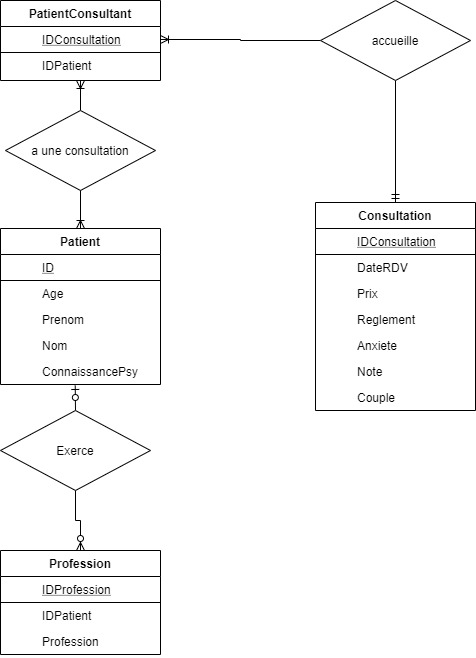
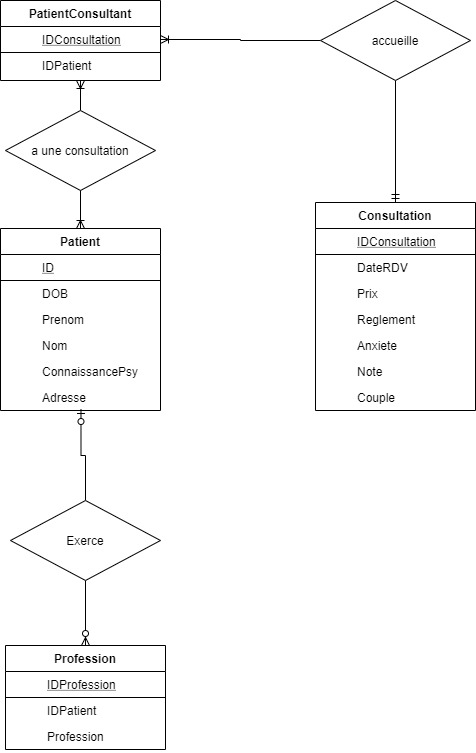
Lier patient RDV, Modifier adresse profession, ajouter commentaires consultation + modification bdd

diff --git a/ProjetBDD_java/src/Test.java b/ProjetBDD_java/src/Test.java
@@ -16,20 +16,23 @@ public class Test {
                 //Connection to the database with the info provided by the user
                 Connection con = DriverManager.getConnection("jdbc:oracle:thin:@localhost:1521:xe", userName, password);
                 user = false;
-                int choice = 1;
-                while (choice != 0) {
-                    System.out.println("Veuillez choisir une action (entrez un nombre de 1 à 10, 0 to quit) : ");
+                int quit = 0;
+                while (quit == 0) {
+                    System.out.println("Veuillez choisir une action (entrez un nombre de 1 à 10) : ");
+                    System.out.println("0.  Quitter le programme ");
                     System.out.println("1.  Consulter RDV ");
                     System.out.println("2.  Enregistrer un patient ");
                     System.out.println("3.  Ajouter un rdv ");
                     System.out.println("4.  Entrer info sur un rdv ");
-                    choice = sc.nextInt();
+                    System.out.println("5.  Modifier info patient ");
+                    int choice = sc.nextInt();
                     Statement st;
                     ResultSet rs;
                     String sql;
                     switch (choice) {
                         case 0 :
-                            System.out.println("Au revoir");
+                            System.out.println("Êtes-vous sûr de vouloir quitter le programme ? (0 pour revenir) ");
+                            quit = sc.nextInt();
                             break;
                         case 1:
                             st = con.createStatement();
@@ -45,13 +48,16 @@ public class Test {
                         case 2 :
                             sc.nextLine();
                             System.out.println("Entrez le nom du patient : ");
-                            String nom = "'" + sc.nextLine() + "'";
+                            String nomPatient = "'" + sc.nextLine() + "'";
 
                             System.out.println("Entrez le prenom du patient : ");
-                            String prenom = "'" + sc.nextLine() + "'";
+                            String prenomPatient = "'" + sc.nextLine() + "'";
 
-                            System.out.println("Entrez l'age du patient : ");
-                            String age = "'" + sc.nextLine() + "'";
+                            System.out.println("Entrez votre date de naissance sous la forme : yyyy/mm/dd (par ex : 2003/05/19) : ");
+                            String dob = "'" + sc.nextLine() + "'";
+
+                            System.out.println("Entrez votre adresse : ");
+                            String adresse = "'" + sc.nextLine() + "'";
 
                             System.out.println("Entrez la façon dont le patient a connu le cabinet : ");
                             String psy = "'" + sc.nextLine() + "'";
@@ -60,23 +66,56 @@ public class Test {
                             String prof = "'" + sc.nextLine() + "'";
 
                             st = con.createStatement();
-                            sql = "INSERT INTO \"Patient\"(\"Age\",\"Prenom\",\"Nom\",\"ConnaissancePsy\") VALUES(" + age + "," + prenom + "," + nom + "," + psy + ")";
+                            sql = "INSERT INTO \"Patient\"(\"Prenom\",\"Nom\",\"ConnaissancePsy\",\"Adresse\",\"DOB\") VALUES(" + prenomPatient + "," + nomPatient + "," + psy + "," + adresse + ",TO_DATE(" + dob + ", 'yyyy/mm/dd'))";
                             st.executeQuery(sql);
                             sql = "INSERT INTO \"Profession\"(\"IDPatient\",\"Profession\") VALUES(pat_seq.currval," + prof + ")";
                             st.executeQuery(sql);
+
+                            st.close();
                             break;
                         case 3 :
                             sc.nextLine();
+
                             System.out.println("Entrez la date du RDV sous la forme : yyyy/mm/dd hh24:mi (par ex : 2003/05/19 16:00) : ");
                             String date = "'" + sc.nextLine() + "'";
 
-                            System.out.println("Consultation en couple ? (1 si oui 0 sinon) : ");
-                            int couple = sc.nextInt();
-
                             st = con.createStatement();
-                            sql = "INSERT INTO \"Consultation\"(\"DateRDV\", \"Couple\") VALUES(TO_DATE(" + date + ", 'yyyy/mm/dd hh24:mi')," + couple + ")";
+                            sql = "INSERT INTO \"Consultation\"(\"DateRDV\", \"Couple\") VALUES(TO_DATE(" + date + ", 'yyyy/mm/dd hh24:mi'),0)";
                             st.executeQuery(sql);
-                            sql= "INSERT INTO \"PatientConsultant\" VALUES(cons_seq.currval,pat_seq.currval)";
+
+                            int nb = 0;
+                            do {
+                                System.out.println("Combien de patients vont assister à ce RDV ? : (1 à 3 patients) ");
+                                nb = sc.nextInt();
+                                sc.nextLine();
+                            } while (nb>3 || nb<1);
+
+                            int id = 0;
+                            for (int i=0;i<nb;i++) {
+                                System.out.println("Entrez le nom du patient prenant le RDV: ");
+                                String nom = "'" + sc.nextLine() + "'";
+
+                                System.out.println("Entrez le prenom du patient prenant le RDV: ");
+                                String prenom = "'" + sc.nextLine() + "'";
+
+                                sql = "SELECT ID FROM \"Patient\" WHERE \"Nom\" =" + nom + " AND \"Prenom\" =" + prenom;
+                                rs = st.executeQuery(sql);
+                                while (rs.next()) {
+                                    id = rs.getInt("ID");
+                                }
+                                sql= "INSERT INTO \"PatientConsultant\" VALUES(cons_seq.currval,"+ id + ")";
+                                st.executeQuery(sql);
+                            }
+
+                            if (nb==2) {
+                                System.out.println("Consultation en couple ? (1 si oui 0 sinon) : ");
+                                int couple = sc.nextInt();
+                                if (couple == 1) {
+                                    sql = "UPDATE \"Consultation\" SET \"Couple\"=" + couple + " WHERE IDConsultation = cons_seq.currval";
+                                }
+                            }
+
+                            st.close();
                             break;
                         case 4:
                             sc.nextLine();
@@ -95,11 +134,39 @@ public class Test {
 
                             st = con.createStatement();
                             sql = "UPDATE \"Consultation\" SET \"Prix\"=" + prix + ",\"Paiement\"=" + paiement + ",\"Note\"=" + note + ",\"Anxiete\"=" + anxiete + " WHERE IDConsultation=cons_seq.currval";
+
+                            st.close();
                             break;
+                        case 5:
+                            System.out.println("Entrez le nom du patient dont vous voulez modifier les infos : ");
+                            String nom = "'" + sc.nextLine() + "'";
+
+                            System.out.println("Entrez le prenom du patient dont vous voulez modifier les infos  : ");
+                            String prenom = "'" + sc.nextLine() + "'";
+
+                            System.out.println("Entrez la nouvelle adresse du patient dont vous voulez modifier les infos  : ");
+                            String newAdresse = "'" + sc.nextLine() + "'";
+
+                            System.out.println("Entrez la nouvelle profession actuelle du patient : ");
+                            String profession = "'" + sc.nextLine() + "'";
+
+                            st = con.createStatement();
+                            sql = "SELECT ID FROM \"Patient\" WHERE \"Nom\" =" + nom + " AND \"Prenom\" =" + prenom;
+                            rs = st.executeQuery(sql);
+                            int idPatient = 0;
+                            while (rs.next()) {
+                                idPatient = rs.getInt("ID");
+                            }
+                            sql = "UPDATE \"Patient\" SET \"adresse\"=" + newAdresse + " WHERE ID = " + idPatient;
+                            st.executeQuery(sql);
+                            sql = "INSERT INTO \"Profession\"(\"IDPatient\",\"Profession\") VALUES(" + idPatient + "," + profession + ")";
+                            st.executeQuery(sql);
+                            st.close();
                         default:
                             System.out.println("Vous avez entré une option innexistante");
                     }
                 }
+                System.out.println("Au revoir !");
                 con.close();
             } catch (SQLException e) {
                 System.out.println("Erreur de connexion (le nom d'utilisateur ou le mot de passe est erroné) : " + e.getMessage());
